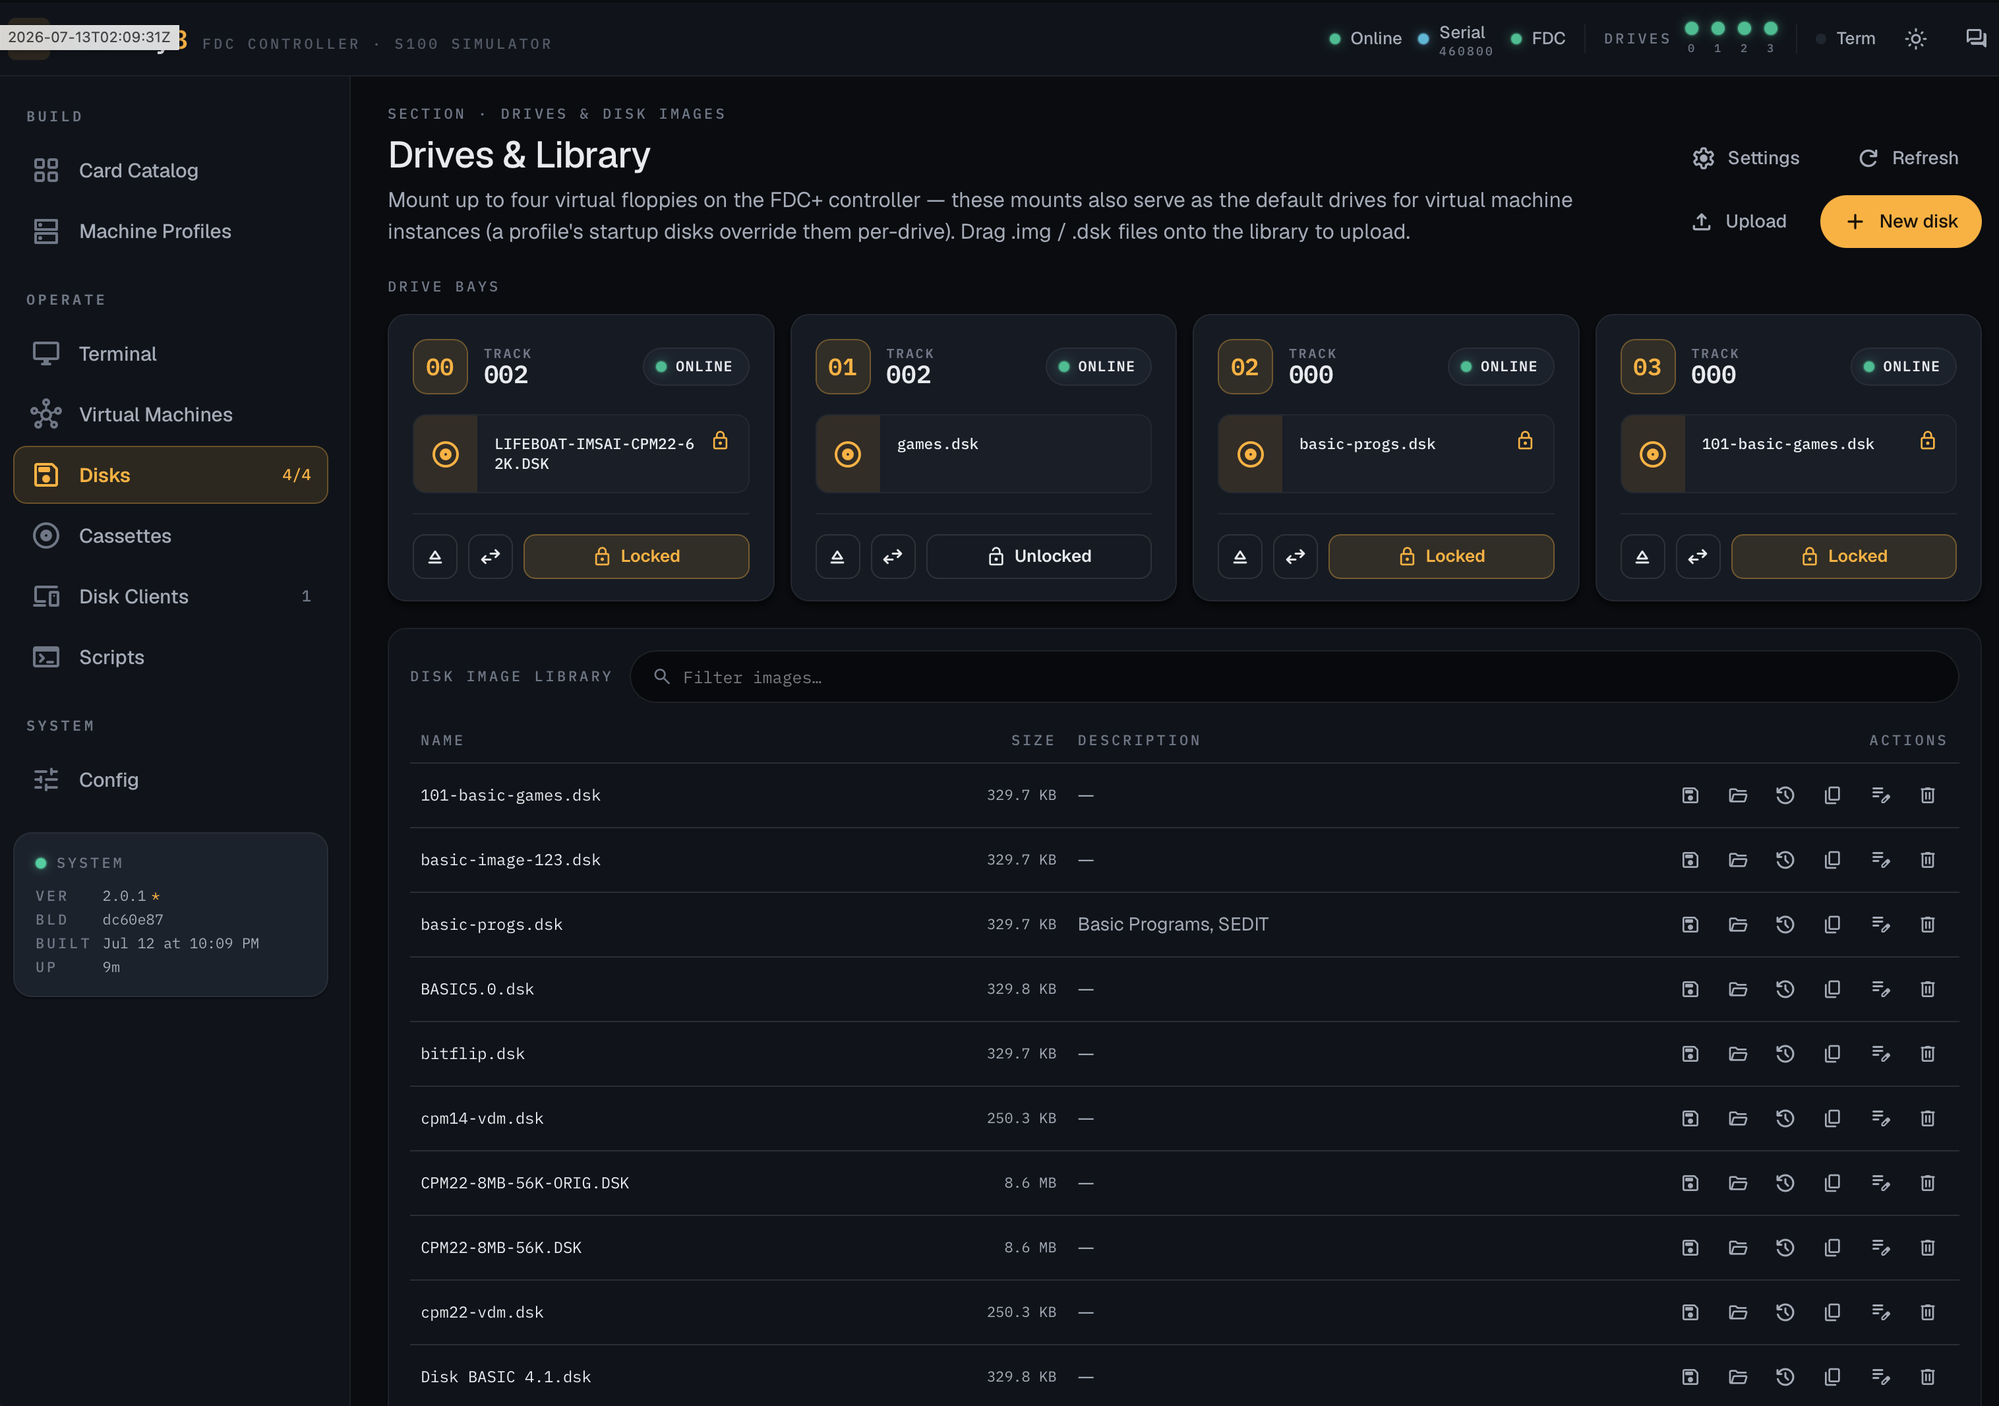
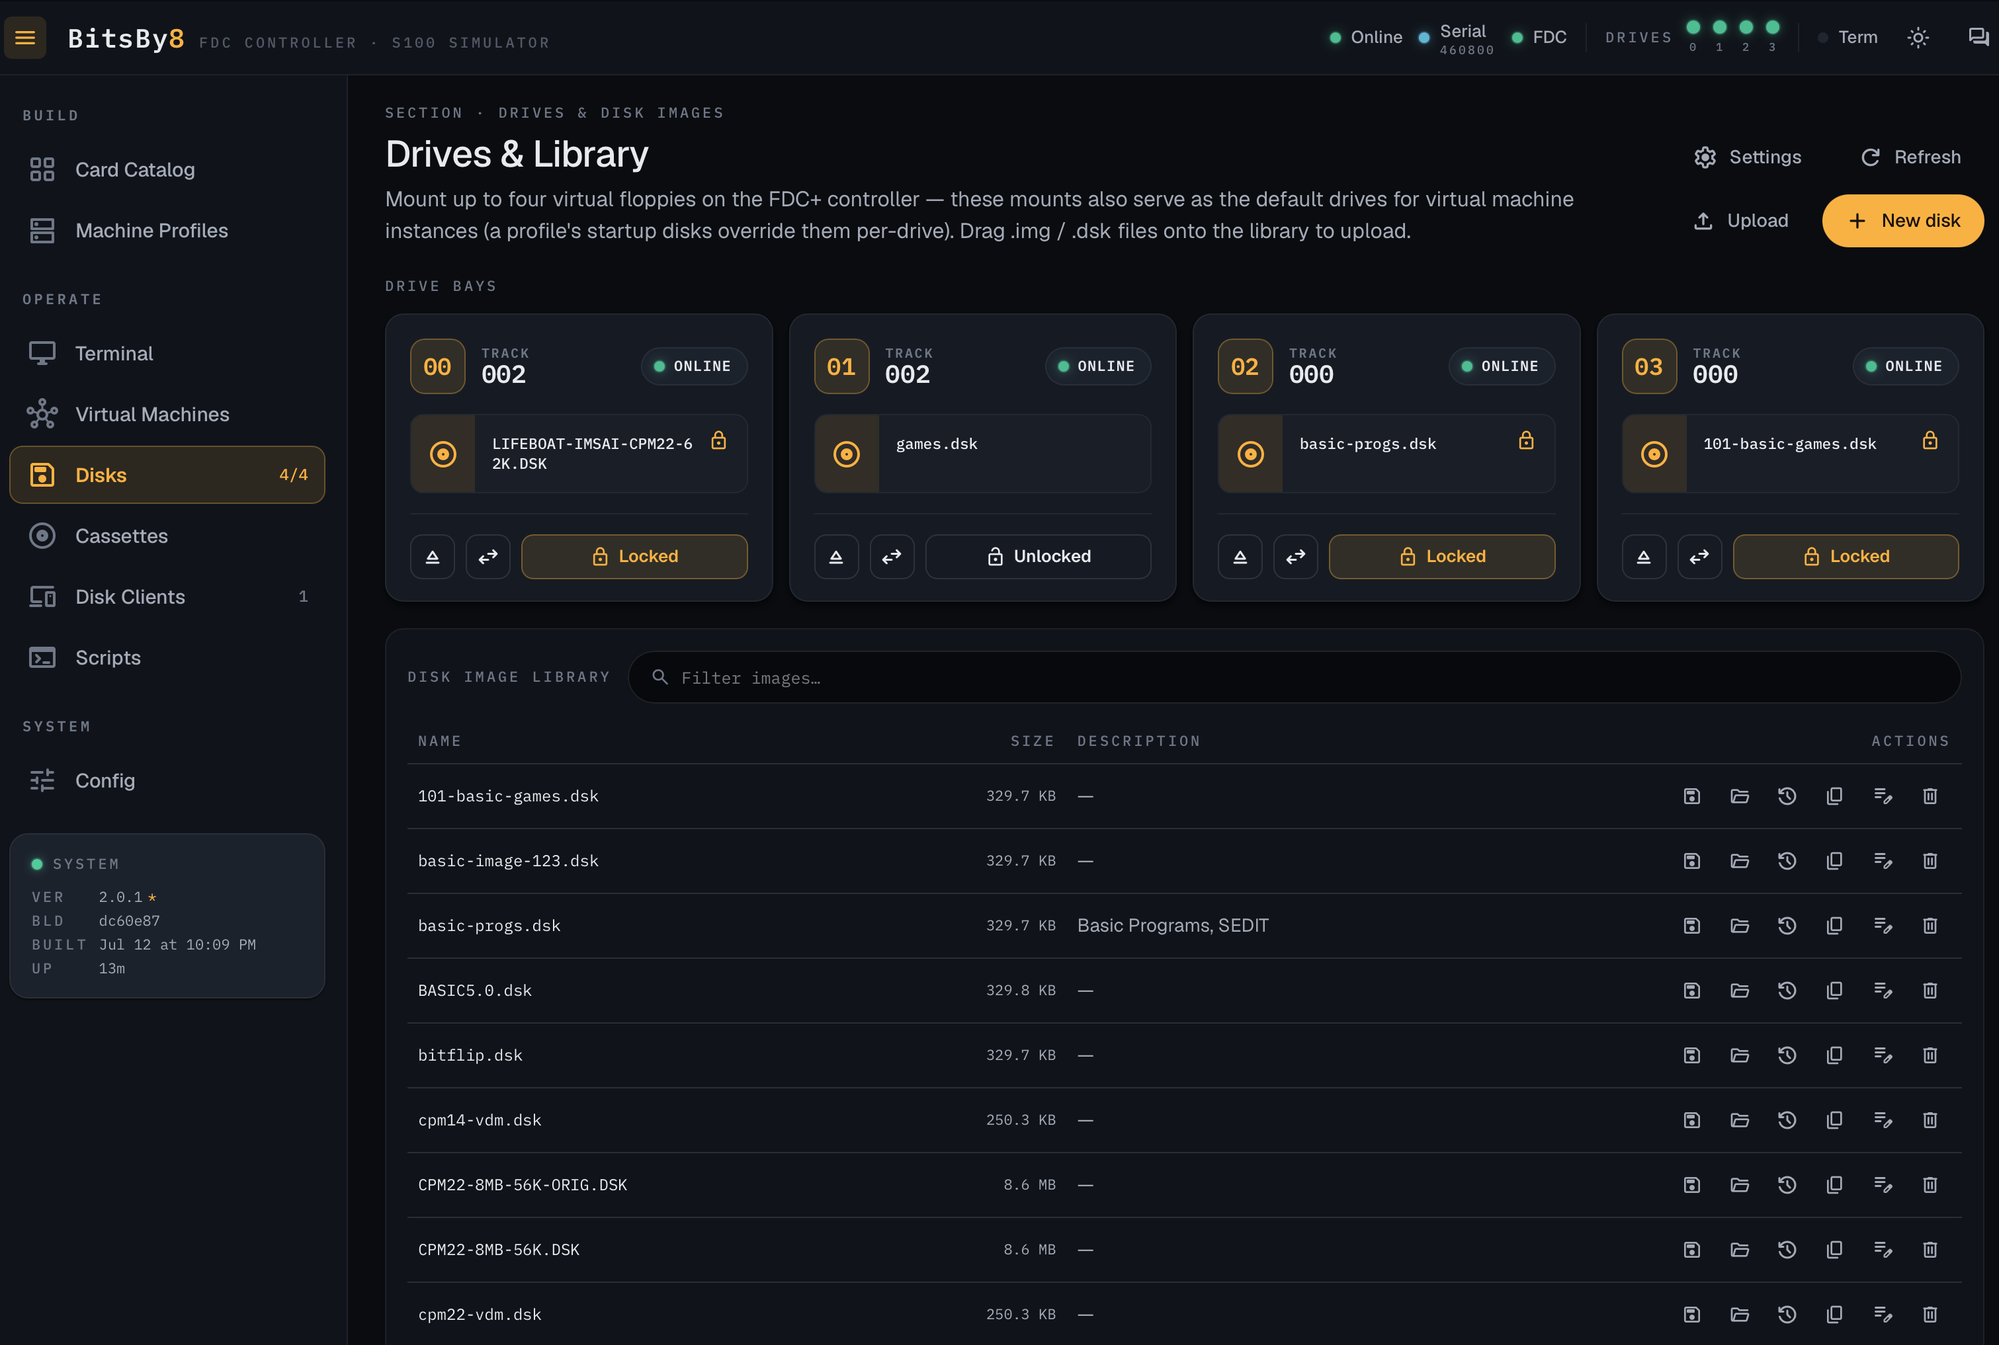
chore: bump version to 3.0.0-alpha; refresh README screenshot
Bump the product version to 3.0.0-alpha across the sources that declare it:
package.json (root + frontend), the FDCSDS_VERSION constant, the OpenAPI
info.version (openapi.json regenerated to match), the README badge, and the
Makefile VERSION_BASE. The Makefile uses the Debian pre-release form
`3.0.0~alpha` (sorts before 3.0.0 and keeps the derived .deb version valid,
since `-` delimits upstream/revision there). cli/ keeps its own 1.0.0.

Also swap the README screenshot for a clean capture without the timestamp
overlapping the BitsBy8 logo.

diff --git a/src/openapi-def.ts b/src/openapi-def.ts
@@ -10,7 +10,7 @@ export const openapiDefinition: Options = {
     openapi: '3.0.0',
     info: {
       title: 'FDC+ Serial Drive Server API',
-      version: '2.0.0',
+      version: '3.0.0-alpha',
       description:
         'REST API for the Altair 8800 FDC+ Serial Drive Server web interface. ' +
         'Manages disk image serving, CP/M filesystem browsing, cassette audio, ' +

diff --git a/src/protocol.ts b/src/protocol.ts
@@ -6,7 +6,7 @@
 // Application constants
 export const FDCSDS_NAME = 'FDC+ Serial Drive Server';
 export const FDCSDS_COPYRIGHT = 'TypeScript port by JoeZilla';
-export const FDCSDS_VERSION = '2.0.0';
+export const FDCSDS_VERSION = '3.0.0-alpha';
 
 // Drive configuration
 export const MAX_DRIVES = 16;

diff --git a/README.md b/README.md
@@ -6,7 +6,7 @@
 
 It serves virtual floppy and hard-disk images to a real Altair through its **FDC+ Enhanced Floppy Disk Controller** over a serial cable — and it can also build and boot fully **virtual S-100 machines** right in your browser, no hardware required. Everything runs from a single Svelte web UI, with a REST API and an MCP server for AI assistants on the side.
 
-**Version:** 2.0.1-rc4 · **License:** GPL-3.0 · **Platforms:** Linux (Raspberry Pi & x86), macOS
+**Version:** 3.0.0-alpha · **License:** GPL-3.0 · **Platforms:** Linux (Raspberry Pi & x86), macOS
 
 > **Note:** BitsBy8 is the product name. The CLI, systemd service, and Debian package are still named `fdcsds`, and the source repo is `fdcplus-web` — these keep their current names for now while the rename is in progress.
 